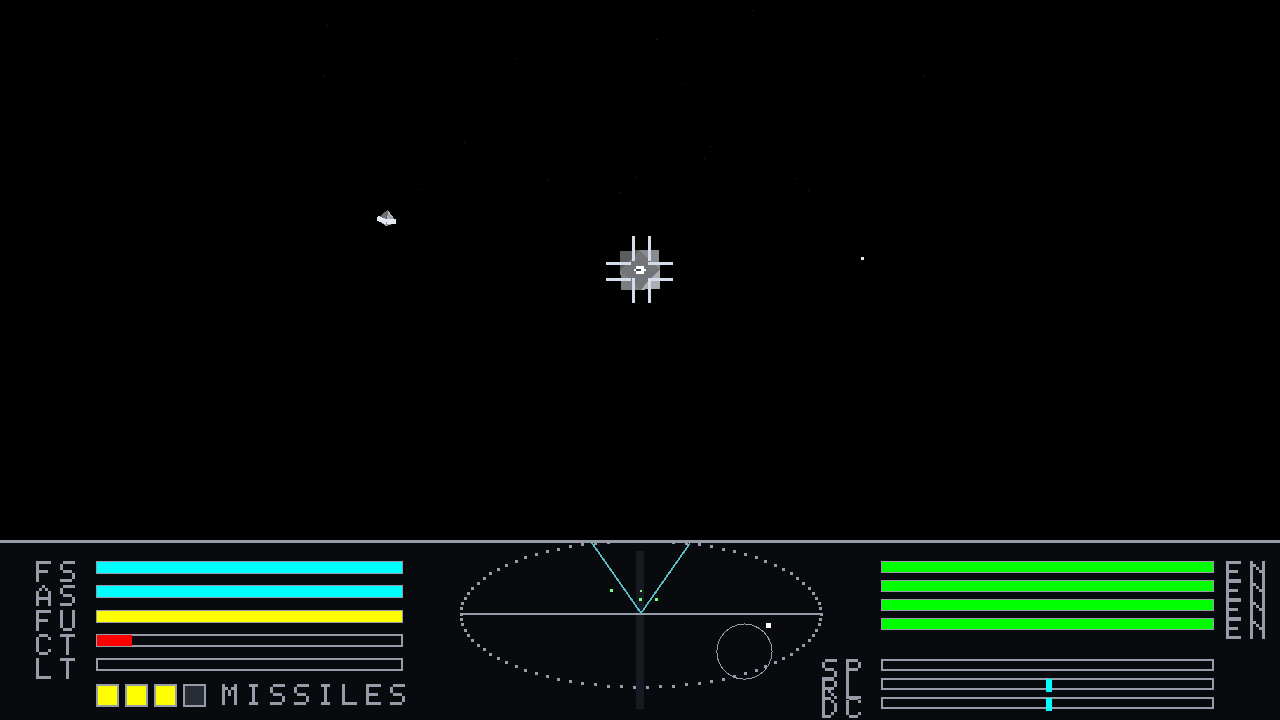
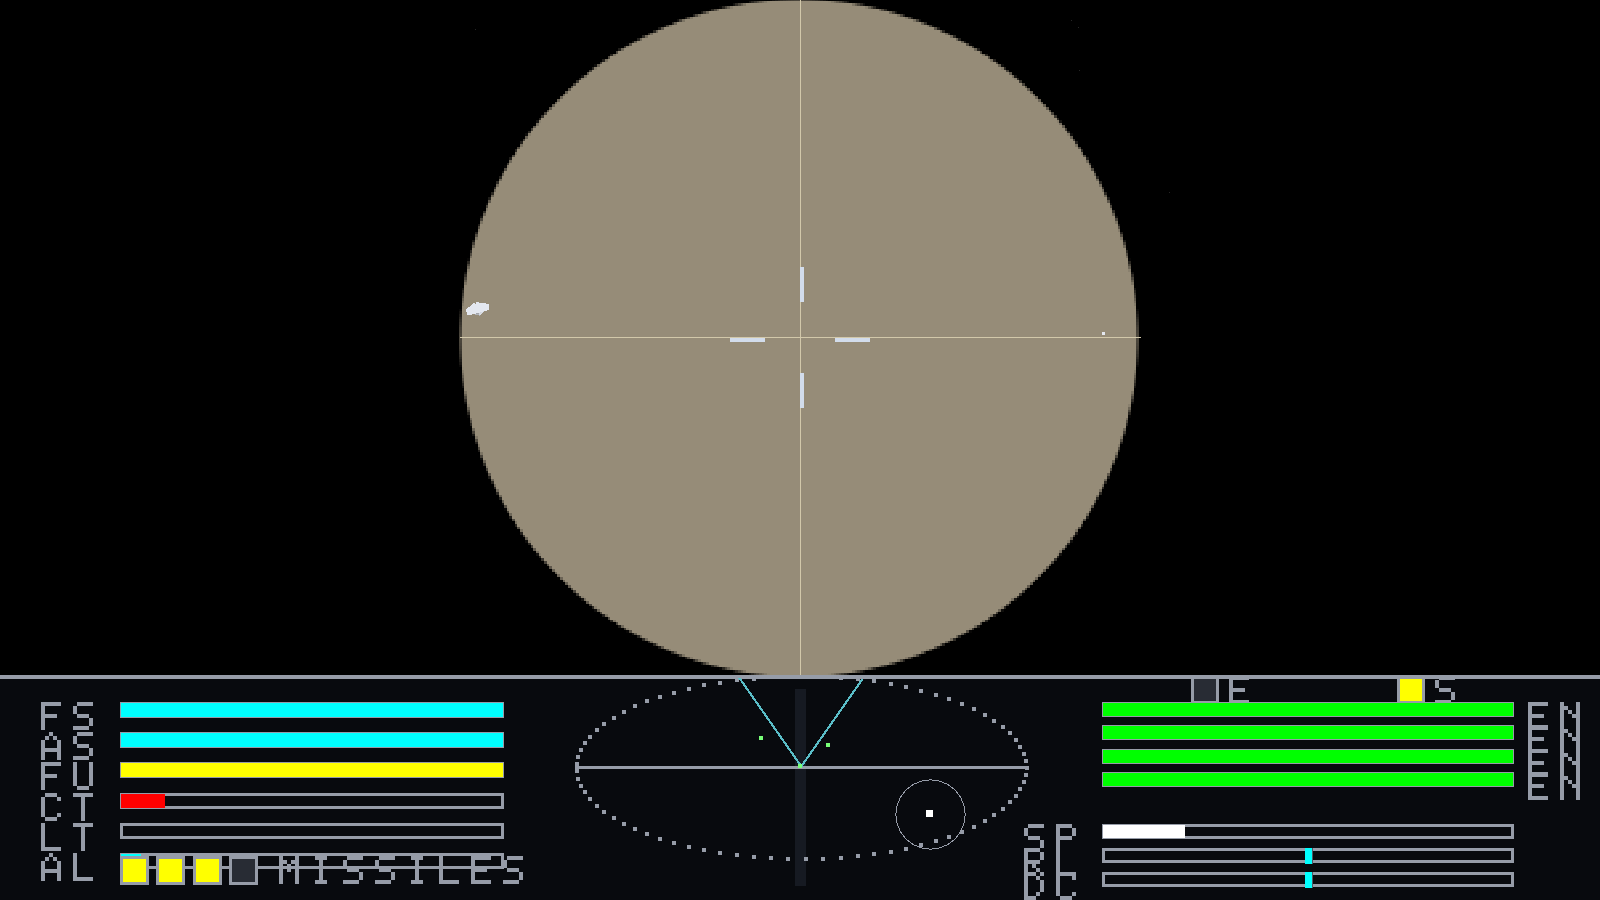
Release 1.2.1: the release notes are as honest as the code
The screenshots are regenerated from the 1.2.0 build, so they show the
dashboard the release notes describe. The status table's rare-state row
names its two deferred pieces, one of which — the scooped-and-docked
NEWB bit 7 — is verified against the disc's LL9 and the flight loop's
parts 11 and 12; only the E.C.M.'s answer is named by the port's own
remarks, and the row now says so. The detail-edges divergence that the
code had outgrown is gone, the gamepad is listed as a deliberate
choice, and the versioning examples track the release rather than
trail it.

diff --git a/docs/DIVERGENCES.md b/docs/DIVERGENCES.md
@@ -22,12 +22,12 @@ are listed too, so the fidelity of the simulation is never in doubt.
 |---|---|---|
 | Projection | The original's focal length (256 pixels for a 192-pixel-high view) is preserved on the vertical axis, so the vertical field of view is exactly the original's 41.1°; a widescreen window shows more to the sides | Ship sizes, combat ranges and docking distances are unchanged vertically, which is what the game's feel depends on. |
 | Ships are solid | Faces are filled and flat-shaded with the blueprint's own normals, with back faces culled | The agreed visual direction: "what 1984 Elite imagined it looked like". Silhouettes match the original's hidden-line output because the same normals decide visibility. |
-| Detail edges | Not yet drawn; the original's per-edge visibility values will draw the fine detail lines (engine outlines, landing struts) on close ships | Planned for the flight milestone. |
 | Pitch angle rounding | `BET1` adds 4 to the magnitude and assumes the carry is set, where the original inherits the carry from earlier instructions | The carry depends on unrelated code paths in the original; the difference is at most 1 unit in an angle of 0-8, and it is documented here rather than guessed at. |
 | Colours | Ships are drawn in light hull greys rather than the original's single wireframe colour | Flat shading needs a base colour; the palette is the BBC Micro's. |
 | Bullets and updates | The simulation runs at a fixed 12.5 iterations a second, which is the disc version's own measured rate (Moxon: 11.5-13 in ordinary flight), with the display interpolating between iterations | Keeps the ported maths in its original units. Running at 50 Hz — the video interrupt's rate, which is what this once did — made everything four times too fast: the station span once every two seconds instead of once every eight. |
 | The in-system jump is per press | "J" makes one jump each time it is pressed; the original reads it from the key logger and jumps on every iteration it is held for | At twelve and a half iterations a second a held key would fire a dozen jumps and take the planet past us in a second. |
-| Launching an escape pod | The pod is spent, the cargo is lost and we are picked up at the station at once. The original spends ninety-seven passes of its inner loop first, moving and drawing our abandoned Cobra so it can be seen drifting away | The result is identical — the original's `ESCAPE` ends by jumping to `GOIN` and the station's screens either way — but the original's moment of watching your ship fall behind is not reproduced. |
+| Launching an escape pod | The pod is spent, the cargo is lost and we are picked up at the station at once. The original spends ninety-seven passes of its inner loop first, moving and drawing our abandoned Cobra so it can be seen drifting away | The result is identical — the original's `ESCAPE` ends by jumping to `GOIN` and the station's screens either way — but the original's moment of watching your ship fall behind is not reproduced. Death itself is fatal however the ship was lost, as the disc's `DEATH` is: an escape pod fitted to the wreck buys nothing, because the pod is launched by its own key while the ship is still there to press it. |
+| The gamepad | The left stick steers, `A`/`B` are the throttle, the right shoulder fires, the left shoulder locks a missile, `X` fires one, `Y` fires the E.C.M., Start engages the docking computer, Back cancels it, and the right stick looks through the four windows | The original has a Bitstik and a joystick option on its configuration screen, so an analogue stick is in the disc's spirit; the button map is ours, because the BBC's joystick ports carry fire and not much else. The keyboard keeps the original's keys throughout. |
 | Leaving the game | F10 leaves from anywhere; ESCAPE launches an escape pod in flight and launches from the station when docked, and it quits from the title screen and the game-over screen, where there is no ship left to leave | The original has no quit key at all — you reset the machine — so this is a modern addition either way. Docked, ESCAPE is the original's own way out of the station (TT102 answers red key f0, which is ESCAPE's key on the BBC, with a launch), so the key keeps its original's meaning in flight and docked both. |
 | The space view keys | F1 is the front view, F2 the rear, F3 the left and F4 the right. The original has them on red keys f0 to f3 | The only keys the remake cannot copy. The BBC Micro's function keys start at f0 and a PC keyboard has no such key, so all four shift by one. Everything else about the views — which laser fires, what the crosshairs mean, the way the dust streams — is the original's. |
 | The market is one screen, not three | The original has separate screens for market prices (f7), buying cargo (f1) and selling cargo (f2); ours shows the prices and takes B to buy and S to sell on the one screen, and f1, f2 and f7 all come to it | It is the same information and the same two transactions, on a modern display that has room for both at once. The prices and the quantities are the original's. |

diff --git a/README.md b/README.md
@@ -71,8 +71,9 @@ block.
 
 ## Status
 
-**v1.0.0** — the whole loop is playable end to end: launch, fly, fight, trade, jump, dock, take
-missions, die. What is left is the long tail, and it is listed rather than hidden.
+**v1.2.1** — the whole loop is playable end to end: launch, fly, fight, trade, jump, dock, take
+missions, die. The long tail is the machinery that has no screen of its own, and it is listed rather
+than hidden.
 
 | Area | State |
 |---|---|
@@ -87,7 +88,7 @@ missions, die. What is left is the long tail, and it is listed rather than hidde
 | Missions: offer rules, hints, briefings and debriefings **as text** | complete |
 | Missions: the briefing *screens* (incoming message, rotating ship, key waits) | complete — staged as the disc's BRIEF and BRP run them; the bay's backdrop picture is the one image not shipped |
 | Rendering: authentic dial geometry | complete — the altitude bar, the E.C.M. and station bulbs, the disc's cross crosshair and the planet's meridians |
-| Death sequence, some rare-state behaviour | not yet |
+| Rare-state behaviour: the enemy E.C.M. answering ours, and the disc's scooped-and-docked flag (NEWB bit 7), which the drawing code and the scanner read to remove a ship one last time | not yet — the E.C.M.'s answer is named in the port's own remarks as "a nice touch for later" |
 | Audio | complete — all ten of the disc's SFX entries, byte-verified in the tests, with every trigger wired |
 
 A measured way to read that table: the disc's flight, docked and loader code carries **382 routine
@@ -98,7 +99,7 @@ under modern names rather than routine for routine. [`docs/COVERAGE.md`](docs/CO
 table — every routine, classified, with the method.
 
 The engineering log, round by round, with the mistakes and how they were found, is in
-[`docs/ROADMAP.md`](docs/ROADMAP.md) (4,800 lines of it).
+[`docs/ROADMAP.md`](docs/ROADMAP.md) (4,800 lines of it, one round at a time).
 
 ## Quick start
 
@@ -188,6 +189,7 @@ dotnet run --project src/EliteRemake.Game -- --dock status --fully-equipped --ex
 | `--in-system-jump <n>` | jump `n` times in system |
 | `--view <front\|rear\|left\|right>` | which view to start in |
 | `--buy <item>[,<view>]` | buy equipment at the start, for testing a fitted ship |
+| `--laser <none\|pulse\|beam\|military>` | fit a laser to the front mount at the start |
 | `--fully-equipped`, `--empty`, `--new-commander` | starting states |
 | `--sim-rate <hz>` | run the simulation faster than real time (used by the smoke tests) |
 | `--sim-warmup <n>`, `--hold`, `--stress <n>`, `--jump` | development hooks |
@@ -273,10 +275,11 @@ dotnet run --project tools/EliteDataExtractor -- all \
     --source ~/elite-source-code-library     # or set ELITE_SOURCE_LIBRARY
 ```
 
-`all` extracts the blueprints, the galaxy seeds, the market and equipment tables and the token
-tables, and then **verifies the blueprints against the original's own binaries** — 17 ship sets, 527
-`XX21` slots, 204 blueprints compared, 0 mismatches. The verifier is the point: extraction that
-nobody checks is just a story about a data file.
+`all` extracts the blueprints and the token and description tables, and then **verifies the
+blueprints against the original's own binaries** — 17 ship sets, 527 `XX21` slots, 204 blueprints
+compared, 0 mismatches. The galaxy's seed triple and the market and equipment tables are constants
+the port carries in code, written from the source library and pinned by the tests. The verifier is
+the point: extraction that nobody checks is just a story about a data file.
 
 ## Fidelity, and how it is checked
 
@@ -307,7 +310,7 @@ dotnet test tests/EliteRemake.Core.Tests                    # 437 tests, ~20 s
 
 # the game runs, draws a frame and reports what it did
 dotnet run --project src/EliteRemake.Game -- --title --screenshot /tmp/title.png --frame 30
-#   -> Final: Title: version 1.0.0, selected START, music on (playing), save absent
+#   -> Final: Title: version 1.2.1, selected START, music on (playing), save absent
 
 # a flight in front of the station, then the docking computer takes us in: --sim-rate runs the
 # simulation faster than real time so the whole approach fits in twenty seconds
@@ -339,7 +342,7 @@ The pipeline does the rest:
 So a release is one command, after the version and the changelog are committed:
 
 ```bash
-git tag -a v1.0.1 -m "v1.0.1" && git push origin master --follow-tags
+git tag -a v1.2.2 -m "v1.2.2" && git push origin master --follow-tags
 ```
 
 ## Documentation

diff --git a/docs/VERSIONING.md b/docs/VERSIONING.md
@@ -13,7 +13,7 @@ A remake is not a library, so "breaking change" needs translating. For this proj
 
 | Part | Bumped when | Examples |
 |---|---|---|
-| **MAJOR** | The port is complete against the disc version, or the shape of the game changes for a player (a save file that no longer loads, a screen reorganised so muscle memory breaks) | `1.0.0` — the first release: the whole flight and docked loop, playable end to end. `2.0.0` would be the port declared complete against the original's 447 subroutines |
+| **MAJOR** | The port is complete against the disc version, or the shape of the game changes for a player (a save file that no longer loads, a screen reorganised so muscle memory breaks) | `1.0.0` — the first release: the whole flight and docked loop, playable end to end. `2.0.0` would be the port declared complete against the disc's own 382 routine files |
 | **MINOR** | Something the original has and we did not: a mechanic, a screen, a mission, a sound, a piece of the interface | the mission briefing screens, the ship's catalogue of close-range detail lines, the death sequence |
 | **PATCH** | A fix to something we already claimed to do, with no new behaviour: a wrong constant, a rule running on the wrong clock, a rendering fault | the recharge rate running eight times too fast, the docking range tested as a distance instead of per axis, the black triangle on the start screen's ship |
 
@@ -28,8 +28,8 @@ Two consequences worth stating plainly:
 
 ## Where the version appears
 
-* The title screen, bottom left, as `v1.0.0`.
-* The title screen's status line (`Title: version 1.0.0, ...`), which the screenshot harness prints
+* The title screen, bottom left, as `v1.2.1`.
+* The title screen's status line (`Title: version 1.2.1, ...`), which the screenshot harness prints
   so an automated run can say which build it exercised.
 * The assembly informational version, so `EliteRemake.Game.dll` and any bug report carry it too.
 
@@ -44,7 +44,7 @@ that does not agree with the build:
 4. Tag and push:
 
 ```bash
-git tag -a v1.0.1 -m "v1.0.1"
+git tag -a v1.2.2 -m "v1.2.2"
 git push origin master --follow-tags
 ```
 

diff --git a/CHANGELOG.md b/CHANGELOG.md
@@ -5,6 +5,25 @@ All notable changes to this project are recorded here. The format follows
 [semantic versioning](https://semver.org/spec/v2.0.0.html) — see [`docs/VERSIONING.md`](docs/VERSIONING.md)
 for what the three numbers mean for a faithful port.
 
+## [1.2.1] — 2026-09-24
+
+Documentation only: the release notes are now as honest as the code. No code changes; the tests are
+the same 437.
+
+* The screenshots in the README are regenerated from the 1.2.0 build, so they show the altitude bar,
+  the E.C.M. and station bulbs, the disc's cross crosshair and the planet's meridians — the dashboard
+  the release notes describe, rather than v1.0.0's.
+* The status table's rare-state row names its two deferred pieces: the enemy E.C.M. answering ours,
+  which the port's own remarks call "a nice touch for later", and the disc's scooped-and-docked flag
+  (NEWB bit 7), which the disc's drawing code and scanner read to remove a ship one last time and
+  which the port does not carry. The old row claimed both were named in the remarks; only the first
+  is.
+* `docs/DIVERGENCES.md` loses its "detail edges not yet drawn" row — they have been drawn with the
+  original's per-edge visibility since the 1.0.0 milestone, and the row was a claim the code had
+  outgrown. It gains the gamepad as a deliberate choice, with the disc's Bitstik as its precedent.
+* The versioning examples track the release rather than trail it: the title screen and the status
+  line print v1.2.1, and the next patch is tagged v1.2.2.
+
 ## [1.2.0] — 2026-09-24
 
 The dashboard, the sound table and the planet, drawn as the disc draws them: the altitude bar and
